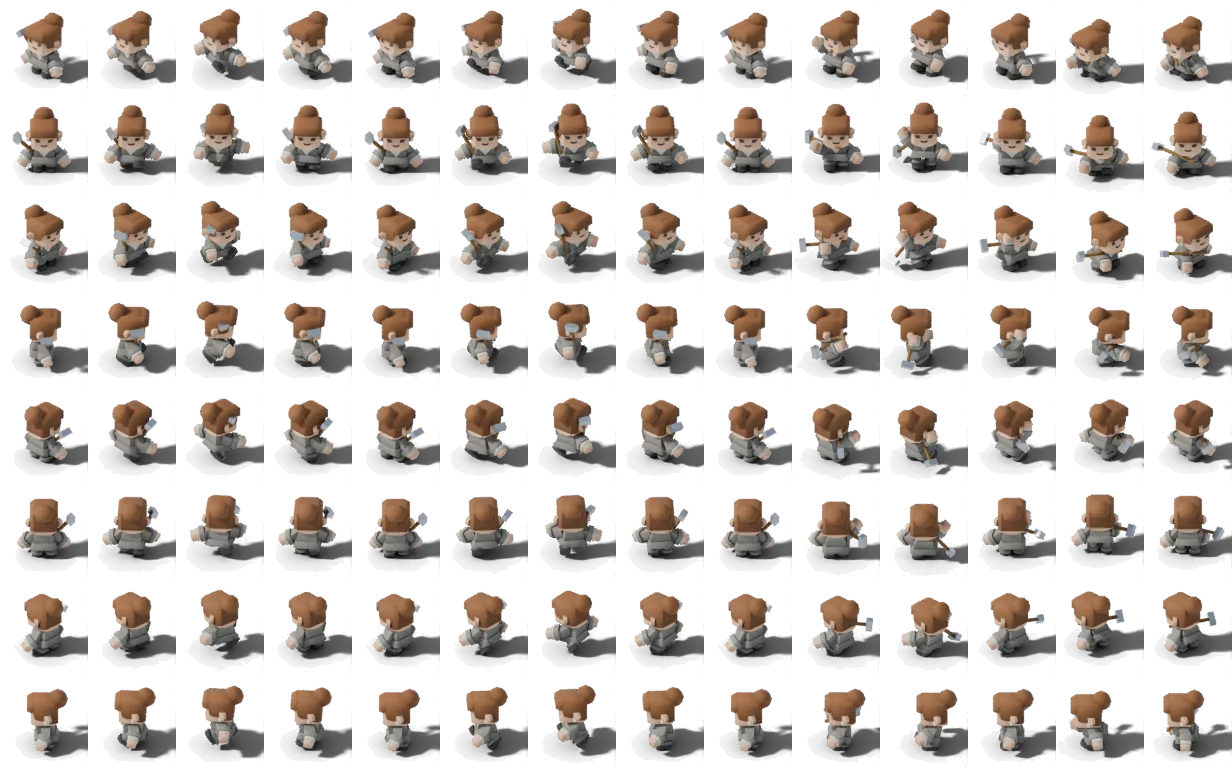
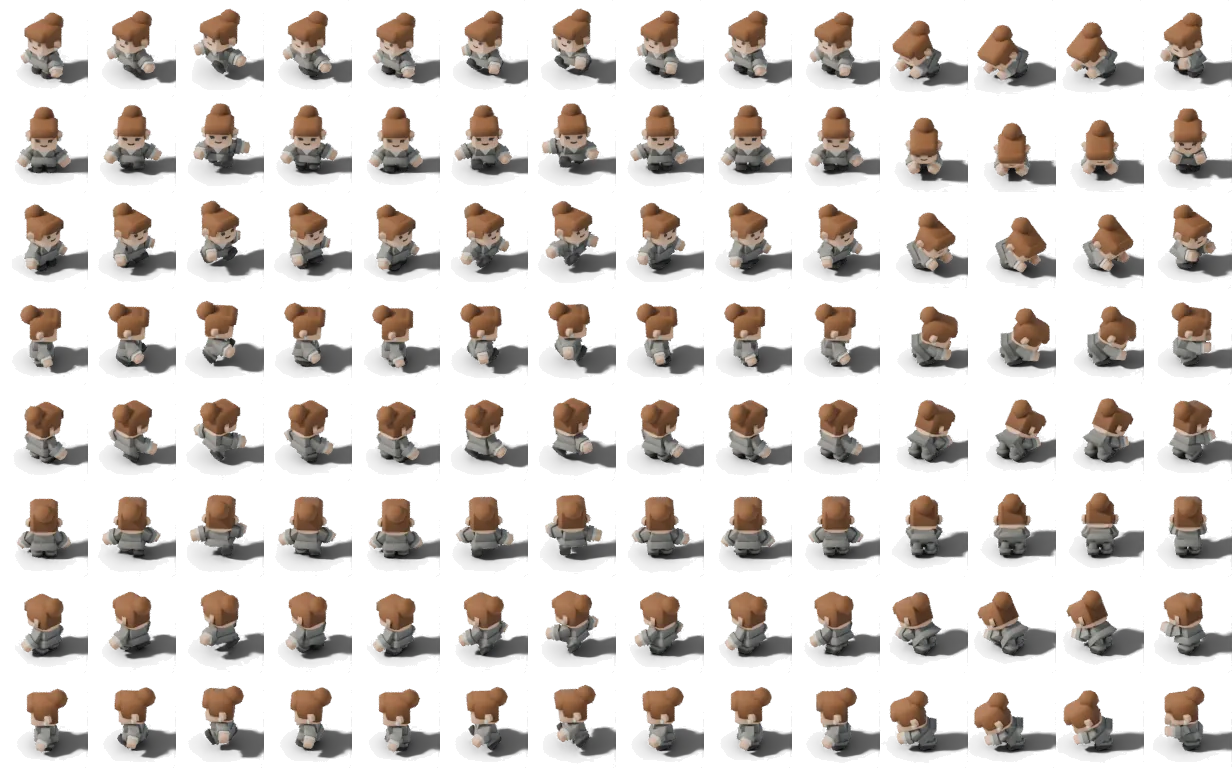
Geologists' signs are everyone's; geologists stop hammering; reload notice (#90)
A geologist's sign now stands for every player, seen where they have
explored, and geologists may search any land again (undoing #89).
Geologists bend down to look at the rock instead of hammering it, with no
hammer in hand and no pick sound. A game left open now notices a newer
build and offers to reload, saving the match first.

diff --git a/packages/client/src/main.ts b/packages/client/src/main.ts
@@ -1129,6 +1129,11 @@ document.addEventListener('click', (e) => {
     case 'open-title': openFront('title'); break;
     case 'close-front': closeFront(); break;
     case 'continue': load(AUTOSAVE_KEY); break;
+    case 'reload-update':
+      // The match goes on after the reload from its autosave (Continue on the title).
+      if (isMatch() && world.winner === null) save(AUTOSAVE_KEY);
+      location.reload(); break;
+    case 'dismiss-update': if (updateBanner) updateBanner.hidden = true; break;
     case 'race':
       if ((RACE_TYPES as readonly string[]).includes(target.dataset.race ?? '')) { lastRace = target.dataset.race as RaceType; remember(RACE_KEY, lastRace); }
       renderMenu(); break;
@@ -1279,6 +1284,21 @@ function simulate(now: number): void {
   }
 }
 setInterval(() => { if (document.hidden) simulate(performance.now()); }, 250);
+
+/** Every two minutes: has a newer build been deployed? Then offer to reload, the match saved first. */
+const updateBanner = document.getElementById('update-banner');
+async function checkForUpdate(): Promise<void> {
+  if (__BUILD_COMMIT__ === 'local' || !updateBanner || !updateBanner.hidden) return;
+  try {
+    const response = await fetch('./version.json', { cache: 'no-store' });
+    if (!response.ok) return;
+    const { commit } = await response.json() as { commit?: string };
+    if (!commit || commit === __BUILD_COMMIT__) return;
+    setHtml(updateBanner, `<span>A new version of Lers is out.</span><button type="button" class="primary" data-action="reload-update">Reload</button><button type="button" class="secondary" data-action="dismiss-update">Later</button>`);
+    updateBanner.hidden = false;
+  } catch { /* offline: try again later */ }
+}
+setInterval(() => { void checkForUpdate(); }, 120_000);
 // Back in view: show what happened meanwhile at once.
 document.addEventListener('visibilitychange', () => { if (!document.hidden) { simulate(performance.now()); refreshLive(); } });
 
@@ -1348,7 +1368,7 @@ requestAnimationFrame(frame);
 
 // Exposed for automated screenshots and debugging in the browser console.
 Object.defineProperty(window, 'lers', {
-  get: () => ({ world, view, ui, TILE, placementProblem, stepMatch, setSpeed, refreshLive, simulation, renderPanel, renderSelectionCard, renderOrders, checkGhost, sounds, music })
+  get: () => ({ world, view, ui, TILE, placementProblem, stepMatch, setSpeed, refreshLive, simulation, renderPanel, renderSelectionCard, renderOrders, checkGhost, checkForUpdate, sounds, music })
 });
 
 // The statistics charts' hover readout: a crosshair at the nearest sample and its values beside it.

diff --git a/packages/simulation/src/step.ts b/packages/simulation/src/step.ts
@@ -1259,16 +1259,14 @@ function updateSpecialist(world: World, s: Settler): void {
   }
   if (s.phase === 'stealing') return updateThief(world, s);
   if (s.targetTile >= 0) {
-    // A geologist's tile that has become another player's land (their pioneers or a tower took it) is left alone.
-    const owner = world.territory[s.targetTile];
-    if (s.phase === 'prospecting' && owner !== 0 && owner !== s.owner + 1) { s.targetTile = -1; s.timer = 0; s.path = []; return; }
     // Walking to the next tile, then working there.
     if (s.path.length > 0) { advance(world, s); return; }
     if (s.timer < (s.phase === 'prospecting' ? PROSPECT_TICKS : CLAIM_TICKS)) { s.timer++; return; }
     const tx = s.targetTile % world.width, ty = Math.floor(s.targetTile / world.width);
     if (s.phase === 'prospecting') {
       // One tile per check: the geologist knocks on the rock where he stands and puts up its sign.
-      world.prospect[s.owner][s.targetTile] = 1;
+      // A sign stands on the ground for everyone to see: every player knows what it shows (where they can see it).
+      for (const signs of world.prospect) signs[s.targetTile] = 1;
       world.mapVersion++;
     } else if (canClaim(world, s.owner, s.targetTile)) {
       // One tile per post, as a geologist checks one tile at a time; rocks and other ground nobody can stand on
@@ -1334,9 +1332,8 @@ function specialistTiles(world: World, s: Settler): number[] {
       if (!isWalkable(world, i)) continue;
       if (taken.has(i)) continue;
       const fromCentre = Math.hypot(x - cx, y - cy);
-      // Geologists search their own land or land nobody holds, never another player's.
       const isWanted = s.settlerType === 'geologist'
-        ? world.terrain[i] === TERRAIN_MOUNTAIN && world.prospect[s.owner][i] === 0 && (world.territory[i] === 0 || world.territory[i] === s.owner + 1)
+        ? world.terrain[i] === TERRAIN_MOUNTAIN && world.prospect[s.owner][i] === 0
         : canClaim(world, s.owner, i) && (isNextToOwn(x, y) || (!hasOwnNear && fromCentre <= CLAIM_RADIUS));
       // Near the spot by the specialist's own walk; further out, ring by ring from the spot.
       if (isWanted) found.push({ i, d: fromCentre <= CLAIM_RADIUS ? distance(x, y, s.x, s.y) : 100 + fromCentre * 10 + distance(x, y, s.x, s.y) * 0.1 });

diff --git a/packages/simulation/test/settlers.test.ts b/packages/simulation/test/settlers.test.ts
@@ -318,7 +318,7 @@ test('a work area can be set while the building is still going up', () => {
   assert.equal(b.workX, b.doorX + 3);
 });
 
-test('a geologist leaves mountain that becomes another player\'s land, and never searches there', () => {
+test('a geologist\'s signs are everyone\'s: every player knows the tiles marked', () => {
   const world = createMatch(7, 'calm', 'medium', 'romans');
   world.players[1].isBot = false;
   const castle = castleOf(world, 0)!;
@@ -331,15 +331,9 @@ test('a geologist leaves mountain that becomes another player\'s land, and never
   command(world, { type: 'setSpecialists', playerId: 0, specialistType: 'geologist', count: 1 });
   run(world, 30);
   const geologist = world.settlers.find((s) => s.owner === 0 && s.settlerType === 'geologist')!;
-  const mx = best % world.width, my = Math.floor(best / world.width);
-  command(world, { type: 'moveSpecialists', playerId: 0, settlerIds: [geologist.id], x: mx, y: my, isWorking: true });
-  runUntil(world, () => geologist.phase === 'prospecting' && geologist.targetTile >= 0, 3000);
-  // The whole mountain around him becomes the other player's land.
-  for (let y = my - 8; y <= my + 8; y++) for (let x = mx - 8; x <= mx + 8; x++) {
-    if (x >= 0 && y >= 0 && x < world.width && y < world.height) world.territory[tileIndex(world, x, y)] = 2;
-  }
-  const before = world.prospect[0].reduce((n, v) => n + v, 0);
-  run(world, 400);
-  assert.equal(geologist.phase, 'idle', 'he stops');
-  assert.equal(world.prospect[0].reduce((n, v) => n + v, 0), before, 'and marks nothing there');
+  command(world, { type: 'moveSpecialists', playerId: 0, settlerIds: [geologist.id], x: best % world.width, y: Math.floor(best / world.width), isWorking: true });
+  run(world, 1500);
+  const marked = world.prospect[0].reduce((n, v) => n + v, 0);
+  assert.ok(marked > 5);
+  assert.equal(world.prospect[1].reduce((n, v) => n + v, 0), marked, 'the other player sees the same signs');
 });

diff --git a/packages/client/src/renderer.ts b/packages/client/src/renderer.ts
@@ -385,13 +385,15 @@ export class MapView {
     const { world } = this;
     const g = this.flats.clear();
     const prospect = world.prospect[this.viewer];
+    // Signs are seen where the land has been explored, whoever put them up.
+    const vision = world.vision[this.viewer];
     const signed = new Set<number>();
     for (let i = 0; i < world.tree.length; i++) {
       const tx = i % world.width, ty = Math.floor(i / world.width);
       const cx = tx * TILE + TILE / 2, cy = ty * TILE + TILE / 2;
       // A sign on every tile the geologist checked.
       // A building put up there takes its signs down.
-      if (prospect && prospect[i] === 1 && world.rock[i] === 0 && world.footprint[i] === 0) {
+      if (prospect && prospect[i] === 1 && world.rock[i] === 0 && world.footprint[i] === 0 && (!vision || vision[i] !== VISION_NONE)) {
         // A wooden sign on a post, standing among the rocks and trees: sorted with them, so what is in front covers it.
         const hasOre = world.deposit[i] !== 0 && world.depositAmount[i] > 0;
         let sign = this.signSprites.get(i);
@@ -1110,7 +1112,7 @@ export class MapView {
     }
     const id: SoundId | null = isMachine ? 'siege'
       : anim === 'attack' ? (s.settlerType === 'bowman' ? 'bow' : 'clash')
-      : look === 'woodcutter' ? 'chop' : look === 'builder' ? 'hammer' : look === 'stonecutter' || look === 'geologist' ? 'pick'
+      : look === 'woodcutter' ? 'chop' : look === 'builder' ? 'hammer' : look === 'stonecutter' ? 'pick'
       : look === 'digger' || look === 'pioneer' || look === 'farmer' ? 'dig' : null;
     if (id) this.sound(id, tx, ty);
   }

diff --git a/packages/client/src/style.css b/packages/client/src/style.css
@@ -400,3 +400,7 @@ a.build-commit:hover { color: var(--accent); text-decoration: underline; }
 .land-quality.is-good { color: var(--good); }
 .land-quality.is-fair { color: var(--accent); }
 .land-quality.is-poor, .land-quality.is-very-poor { color: var(--warning-text); }
+.update-banner { position: fixed; top: calc(var(--top-height) + 8px + env(safe-area-inset-top, 0px)); left: 50%; transform: translateX(-50%); z-index: 9;
+  display: flex; align-items: center; gap: 10px; padding: 8px 10px 8px 14px; border-radius: 8px; background: var(--panel); border: 1px solid var(--accent);
+  box-shadow: 0 8px 24px rgba(0, 0, 0, 0.4); font-size: 14px; max-width: calc(100vw - 32px); }
+.update-banner .primary, .update-banner .secondary { min-height: 36px; font-size: 14px; }

diff --git a/packages/client/vite.config.ts b/packages/client/vite.config.ts
@@ -12,7 +12,11 @@ function buildCommit(): string {
 // `--mode single` bundles the whole game into one HTML file that can be opened or shared directly.
 export default defineConfig(({ mode }) => ({
   base: './',
-  plugins: mode === 'single' ? [viteSingleFile()] : [],
+  plugins: mode === 'single' ? [viteSingleFile()] : [{
+    // version.json names the build, so a game left open can tell when a newer one has been deployed.
+    name: 'lers-version',
+    generateBundle() { this.emitFile({ type: 'asset', fileName: 'version.json', source: JSON.stringify({ commit: buildCommit() }) }); }
+  }],
   define: { __BUILD_COMMIT__: JSON.stringify(buildCommit()) },
   build: {
     outDir: mode === 'single' ? '../../dist/single' : '../../dist/web',

diff --git a/packages/client/index.html b/packages/client/index.html
@@ -45,6 +45,7 @@
   </div>
   <div class="end-screen" id="end-screen" hidden></div>
   <div class="stats-screen" id="stats-screen" hidden></div>
+  <div class="update-banner" id="update-banner" role="status" hidden></div>
   <!-- Shown at once while the game loads, then the title, match setup and settings screens use it. -->
   <div class="front is-title" id="front">
     <div class="front-card title-card">

diff --git a/art/blender/settlers.py b/art/blender/settlers.py
@@ -19,7 +19,7 @@ SOURCE = {'walk': 'walk', 'work': 'interact-right', 'attack': 'attack-melee-righ
 # bending down for digging, sowing and planting, and the draw for the bow.
 LOOK_SOURCES = {
     'builder': {'work': 'attack-melee-right'}, 'woodcutter': {'work': 'attack-melee-right'},
-    'stonecutter': {'work': 'attack-melee-right'}, 'geologist': {'work': 'attack-melee-right'},
+    'stonecutter': {'work': 'attack-melee-right'}, 'geologist': {'work': 'pick-up'},
     'carrier': {'work': 'pick-up'}, 'digger': {'work': 'pick-up'}, 'pioneer': {'work': 'pick-up'}, 'farmer': {'work': 'pick-up'},
     'bowman': {'attack': 'holding-both-shoot'},
     # The fisher casts: a swing of the rod.
@@ -40,7 +40,7 @@ LOOKS = {
     'worker': ('character-female-b', None, ('walk',)),
     # The sawmill's carpenter works outside, at a sawhorse by the door: walking, carrying the plank, sawing.
     'carpenter': ('character-male-c', 'saw', ('walk', 'carry', 'work')),
-    'geologist': ('character-female-d', 'tool-hammer', ('walk', 'work')),
+    'geologist': ('character-female-d', None, ('walk', 'work')),
     'pioneer': ('character-female-e', 'tool-shovel', ('walk', 'work')),
     'thief': ('character-female-f', None, ('walk', 'work')),
     'swordsman': ('character-male-e', 'sword', ('walk', 'attack', 'die')),

diff --git a/docs/game-design.md b/docs/game-design.md
@@ -59,7 +59,7 @@ These follow The Settlers III as described in its manual (issue #12, phase 1).
 - **Goods move only when needed:** carriers take goods where a site, workshop, mine or temple needs them, or to a storage area the player built, for goods marked to be stored. Spare goods are never carried to the castle. Without a storage area with room, a workplace keeps up to 8 of its goods at its door and stops until they are needed ("Output full: goods wait until needed"). Tools, gold and everything else can be fetched from wherever they wait. The computer stores only planks, stone, gold, gems, gunpowder, tools and weapons, builds another storage area (up to 3) when workplaces wait with goods it stores and storage is nearly full, and tears down an idle stonecutter when a mine waits for its pick. While hammers for its smiths are short it makes no new crew, since crews keep their tools; and when its land is full and there is no room for a smelter, toolsmith, weaponsmith or barracks it still lacks, it tears down a building it can spare (a second storage area, a residence while carriers are plenty, or an idle second workplace).
 - **Occupations:** the player sets a minimum share of carriers and a maximum share of diggers and builders together. Within those shares, a free carrier becomes a digger or builder when a site waits for one. It takes a shovel or hammer from storage and keeps it, and the job, for good, as in the original; the share only limits new ones. Diggers come first, as levelling comes first, but with no shovel left a builder comes for a site that is ready. The first digger and the first builder always come when a site waits, whatever the share (unless it is 0 %). Workers come before crews: when a finished workplace waits for a hammer or shovel and storage has none, an idle builder or digger hands in its tool and goes back to carrying, and no new crew takes that tool, so a toolsmith can always start. The last 3 carriers always stay carriers; workplaces and crews take none of them. The defaults are at least 30 % carriers and at most 35 % crew (the start, 3 diggers and 4 builders, is already about a quarter).
 - **Specialists:** a free carrier becomes a geologist or a pioneer without a tool, as in The Settlers III, and turns back again on request. New specialists are selected at once (several added one after another all together). The player sends them to a spot on explored land, where they wait. They start work only when told to: *Search for ore*, *Claim land* or *Steal* (*Start work* for a mix), around where they stand or where they are walking to. When done they wait again.
-  - **Geologists** check mountain tiles within 6 tiles of the spot, one tile at a time, about 5 seconds each, and put up a sign on each; only on their own land or land nobody holds, so one whose mountain becomes another player's land (their pioneers or a tower took it) stops there. Ore is hidden until a player's own geologist has marked it. Built-in bots see only ore their geologists have marked, and they keep two geologists at work.
+  - **Geologists** check mountain tiles within 6 tiles of the spot, one tile at a time, about 5 seconds each, and put up a sign on each, on any land. Ore is hidden until a geologist has marked it; a sign stands for everyone, so every player sees it (where they have explored) and knows its ore. Geologists bend down to look at the rock; they do not hammer. Built-in bots see only ore marked by a sign, and they keep two geologists at work.
   - **Pioneers** put up one post at a time, about 3 seconds each (about 15 tiles a minute; the original was observed at about 20), claiming one tile and any rocks or other ground nobody can stand on next to it, so claimed land has no holes: within 4 tiles of the spot, then go on pushing the border outward from it, land next to the player's own, up to 12 tiles from the spot: land that no enemy military building holds, including other players' pioneer land. Several pioneers (and geologists) sent together each take their own tiles. Military land always wins over pioneer land.
 - **Land quality:** where a building stands decides how well it works. Grain grows fastest on moist, firm soil, slowly on dry ground and badly in the wet ground at the water's edge; rice wants that wet ground; vines want the hillsides within 6 tiles of a mountain and do poorly on flat land; bees want trees around them; a mine works the faster the more of the ground it reaches holds its ore. Fish live in some waters and not in others: a fisher goes only to shores by water that holds fish, catches with a chance equal to the water's share of a full stock (from poor water, almost never), takes one fish per catch, and fish come back one per tile every 5 minutes up to the water's own stock; only about a quarter of the water holds fish, most of it few, so poor water gives almost nothing. Soil shows in the grass (dry ground straw-coloured, marshy ground dark), fish swim in the water as shadows, and while placing, and on the building's card, a line rates the spot (Good, Fair, Poor) with its percentage; an ordinary spot (60 %) works at the usual pace, a better one faster (vines, rice and bees up to a fifth; fields at most the usual pace), a poorer one slower. Soil, hillsides and fish follow the map and are mirrored with it. The computer prefers good spots.
 - **Gold:** the gold mine (fish is the miners' favourite food) and the gold smelter (gold ore + coal → gold bar) are in. Each start's ore mountain has iron in the middle, coal on the side toward the castle, a little gold and gems at the edge, and bare rock elsewhere, where a geologist finds nothing (in the original most signs come up empty, the ore in patches). Elsewhere gold sits where ore is richest.
@@ -216,6 +216,7 @@ The map shows what the simulation holds, so a player can read the settlement wit
 - **Sound:** chops, hammer blows, picks on stone, spades in earth, swords and bows, falls, collapsing buildings and war machine shots play for what is on screen, quieter toward its edges and panned to their side. The interface clicks, warns, and chimes when a building is finished or the match ends. Sound starts after the first tap or click, as browsers require, and can be turned off in the menu. The sounds are Kenney's CC0 packs, converted by `art/sounds.sh`.
 - **Empty towers are manned:** a finished tower or castle with nobody inside takes a free soldier, or, when there is none, one from the nearest of its owner's garrisons that holds two or more.
 - **Fishers cast** with a swing of the rod. **Soldiers' strikes** land at the moment the hit is dealt: the sword or spear blow, or the arrow leaving the bow, then a draw back for the next.
+- **New versions:** a game left open checks every two minutes whether a newer build is out (`version.json`, written by the build) and offers *Reload*, saving the match to the autosave first so Continue picks it up.
 - **Menus:** the game opens on a loading screen with a progress bar, then the title: Continue (the autosave), Single player, Load saved game, Multiplayer (coming soon) and Settings. Single player sets up the match (people, difficulty, opponent, map, players, victory, halves, starting goods) and starts it, or a sandbox. Settings switch sound effects and music on or off and set their volume, kept in this browser. The in-game menu opens the same setup and settings and goes back to the title; the game stands still while any of them is open. Screens opened from the title keep its plain backdrop; from the game, the map shows dimmed behind. Starting or loading a match shows a loading screen until its art is in and its map is drawn. With a map in the address (`?seed=…`), the game starts at once. The title and the in-game menu show the build's short commit, linked to it on GitHub; Coolify passes `SOURCE_COMMIT` to the Docker build, a local build reads it from git.
 - **Music:** four CC0 medieval tracks by RandomMind (OpenGameArt) play quietly under the sound effects, each loop twice before the next, every loop fading into the next over 4 seconds, from the title on: at once where the browser allows it, else from the first tap or click, which the title asks for; it keeps playing while the tab is in the background, and is switched off in the menu. `art/music.sh` downloads and converts them.
 - **Building materials read larger:** logs, planks and stone are drawn about half again as large as other goods in piles and a fifth or so larger in a carrier's arms.
